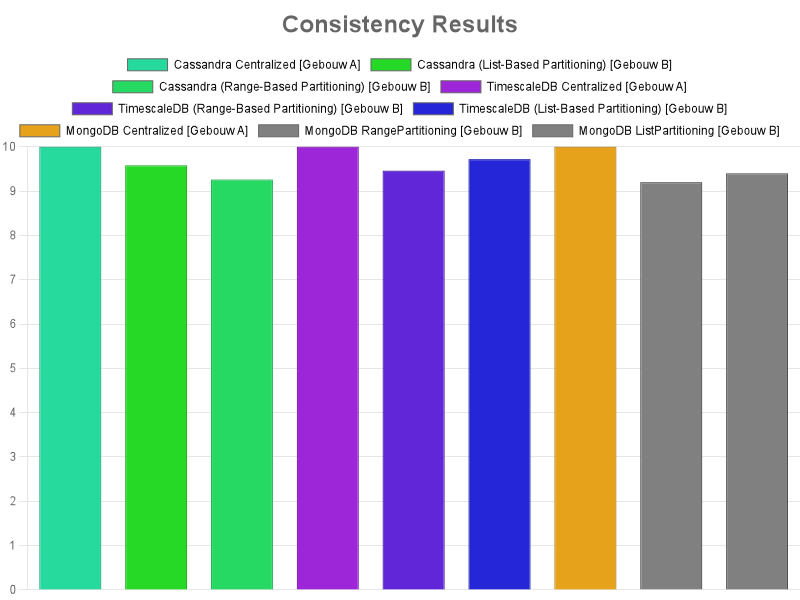
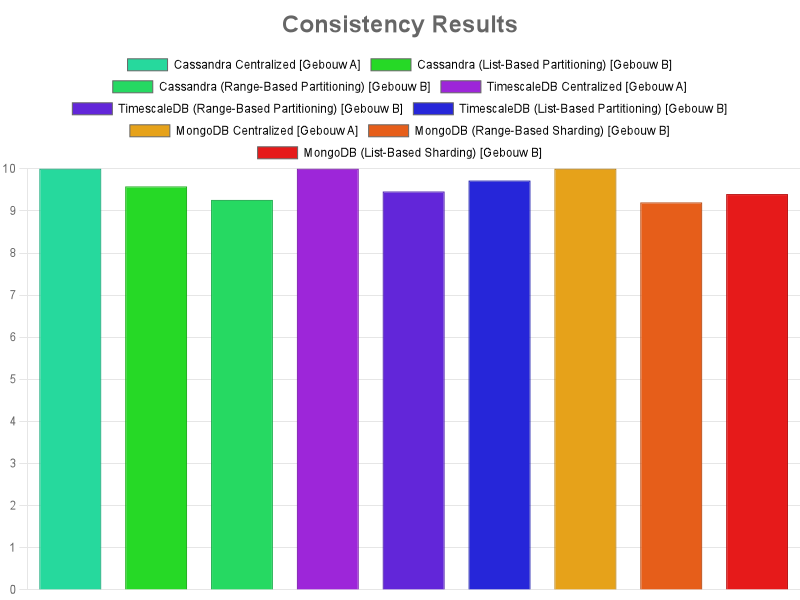
removed unused variables and functions, fixed a problem with generating charts

diff --git a/POCTests.js b/POCTests.js
@@ -5,7 +5,6 @@ const { v4: uuidv4 } = require("uuid");
 const { performance } = require("perf_hooks");
 const fs = require("fs");
 
-const NUM_RECORDS = 100;
 const REPEAT_RUNS = 5;   // aantal herhalingen per test voor gemiddelde
 
 function sleep(ms) {
@@ -25,8 +24,6 @@ function generateSensorData(building = "Building A", room = "Room 1") {
     room
   };
 }
-
-const offlineBuffer = {};
 
 function sleep(ms) {
   return new Promise(resolve => setTimeout(resolve, ms));
@@ -141,26 +138,6 @@ async function runWithAverage(testFn, args, label, metric) {
   testResults.push({ metric, label, value: parseFloat(avg.toFixed(2)) });
 }
 
-/*async function testLatency(queryFn, label) {
-  const start = performance.now();
-  for (let i = 0; i < NUM_RECORDS; i++) {
-    await executeQuery(queryFn,);
-  }
-  const end = performance.now();
-  return (end - start) / NUM_RECORDS;
-}
-
-async function testThroughput(queryFn, label) {
-  const start = performance.now();
-  const promises = [];
-  for (let i = 0; i < NUM_RECORDS; i++) {
-    promises.push(executeQuery(queryFn));
-  }
-  await Promise.all(promises);
-  const end = performance.now();
-  return NUM_RECORDS / ((end - start) / 1000);
-}*/
-
 async function testRealtimeLatency(queryFn, label, intervalMs = 1000, durationSeconds = 10) {
   const records = Math.max(1, Math.floor(durationSeconds * 1000 / intervalMs));
   let totalLatency = 0;
@@ -203,13 +180,6 @@ async function testScalability(queryFn, label, scaleFactors) {
     console.log(`${label} Scalability ${factor} ops: ${end - start} ms`);
   }
   const avg = durations.reduce((a, b) => a + b.duration, 0) / durations.length;
-
-  /*testResults.push({
-    metric: "Scalability",
-    label,
-    value: parseFloat(avg.toFixed(2)),
-    details: durations
-  });*/
 
   return avg;
 }
@@ -304,13 +274,6 @@ async function testConsistency(client, queryFn, label) {
 
   const finalScore = resultsOverTime[resultsOverTime.length - 1].score;
 
-  /*testResults.push({
-    metric: "Consistency",
-    label,
-    value: finalScore,
-    timeline: resultsOverTime
-  });*/
-
   console.log(`✅ Consistency for ${label}: ${finalScore}/10`);
   return finalScore;
 }
@@ -362,121 +325,6 @@ function mapDurationToScore(durationMs) {
   if (durationMs < 2000) return 2;
   return 1; // Minimale score: herstel duurde lang, maar is nog steeds succesvol afgerond
 }
-
-/*async function testOfflineBehavior(edgeClients, label) {
-  console.log(`\n🔌 Testing Offline Behavior for ${label} (Edge zonder centrale verbinding)...`);
-
-  try {
-    for (const [name, client] of Object.entries(edgeClients)) {
-      console.log(`➡ Simulatie van lokaal schrijven in ${name}...`);
-
-      for (let i = 0; i < 10; i++) {
-        const sensorData = {
-          Id: uuidv4(),
-          timestamp: new Date(),
-          temperature: Math.random() * 100,
-          co2: Math.random() * 1000,
-          pressure: Math.random() * 1000,
-          building: "Building A",
-          room: "Room 101"
-        };
-
-        if (name.includes("MongoDB")) {
-          if (!client.isConnected || !client.topology || !client.topology.isConnected()) {
-            if (!offlineBuffer[name]) offlineBuffer[name] = [];
-            offlineBuffer[name].push(sensorData);
-          } else {
-            await executeQuery(() =>
-              client.db("edge_building_b").collection("sensor_data").insertOne(sensorData)
-            );
-          }
-        } else if (name.includes("TimescaleDB")) {
-          await executeQuery(() =>
-            client.query(
-              "INSERT INTO sensor_data (id, timestamp, temperature, co2, pressure, building, room) VALUES ($1, $2, $3, $4, $5, $6, $7)",
-              [
-                sensorData.Id,
-                sensorData.timestamp,
-                sensorData.temperature,
-                sensorData.co2,
-                sensorData.pressure,
-                sensorData.building,
-                sensorData.room,
-              ]
-            )
-          );
-        } else if (name.includes("Cassandra")) {
-          await executeQuery(() =>
-            client.execute(
-              "INSERT INTO sensor_data (id, timestamp, temperature, co2, pressure, building, room) VALUES (?, ?, ?, ?, ?, ?, ?)",
-              [
-                sensorData.Id,
-                sensorData.timestamp,
-                sensorData.temperature,
-                sensorData.co2,
-                sensorData.pressure,
-                sensorData.building,
-                sensorData.room,
-              ],
-              { prepare: true }
-            )
-          );
-        }
-      }
-
-      console.log(`✅ ${name} operationeel zonder centrale connectie`);
-      testResults.push({ metric: "Offline Behavior", label: name, value: "Operational" });
-    }
-  } catch (err) {
-    console.error(`❌ Fout tijdens offline gedragstest:`, err);
-    testResults.push({ metric: "Offline Behavior", label, value: "Failed" });
-  }
-}*/
-
-/*async function testRealtimeLatency(client, queryFn, label, intervalMs = 1000, durationSeconds = 10) {
-  console.log(`\n📡 Realtime Latency Test for ${label}...`);
-  const records = Math.floor(durationSeconds * 1000 / intervalMs);
-  let totalLatency = 0;
-
-  for (let i = 0; i < records; i++) {
-    const start = performance.now();
-    try {
-      await executeQuery(queryFn);
-    } catch (error) {
-      console.error(`Latency error at ${i}:`, error);
-    }
-    const end = performance.now();
-    const latency = end - start;
-    totalLatency += latency;
-    await sleep(intervalMs);
-  }
-
-  const avgLatency = (totalLatency / records).toFixed(2);
-  console.log(`${label} Avg Latency (real-time): ${avgLatency} ms`);
-  testResults.push({ metric: "Realtime Latency", label, value: parseFloat(avgLatency) });
-}
-
-async function testRealtimeThroughput(client, queryFn, label, intervalMs = 200, durationSeconds = 10) {
-  console.log(`\n🚀 Realtime Throughput Test for ${label}...`);
-  let operationCount = 0;
-  const start = performance.now();
-  const endTime = start + durationSeconds * 1000;
-
-  while (performance.now() < endTime) {
-    try {
-      await executeQuery(queryFn);
-      operationCount++;
-    } catch (err) {
-      console.error("Throughput error:", err);
-    }
-    await sleep(intervalMs);
-  }
-
-  const end = performance.now();
-  const throughput = (operationCount / ((end - start) / 1000)).toFixed(2);
-  console.log(`${label} Throughput (real-time): ${throughput} ops/sec`);
-  testResults.push({ metric: "Realtime Throughput", label, value: parseFloat(throughput) });
-}*/
 
 (async () => {
   try {
@@ -861,16 +709,6 @@ async function testRealtimeThroughput(client, queryFn, label, intervalMs = 200, 
         port: 5444,
       }));
     }
-    
-    /*await testOfflineBehavior(
-      {
-        [`MongoDB ${mongoShardedConfigs[0].dbName}`]: mongoShardedClients[0],
-        [`MongoDB ${mongoShardedConfigs[1].dbName}`]: mongoShardedClients[1],
-        'TimescaleDB Range-Based Partitioning': timescalePartitionedConfigs[0].client,
-        'Cassandra ListPartitioning': cassandraPartitionedConfigs[0].client,
-      },
-      'Edge Only Test'
-    );*/
 
     saveResultsToFile();
 

diff --git a/generateCharts.js b/generateCharts.js
@@ -26,9 +26,9 @@ const normalizeLabel = (label) => {
     name = "Cassandra (Range-Based Partitioning)";
   } else if (label.includes("Cassandra Centralized")) {
     name = "Cassandra Centralized";
-  } else if (label.includes("MongoDB edge_list_partitioning")) {
+  } else if (label.includes("MongoDB ListPartitioning")) {
     name = "MongoDB (List-Based Sharding)";
-  } else if (label.includes("MongoDB edge_range_partitioning")) {
+  } else if (label.includes("MongoDB RangePartitioning")) {
     name = "MongoDB (Range-Based Sharding)";
   } else if (label.includes("MongoDB Centralized")) {
     name = "MongoDB Centralized";

diff --git a/obj/Debug/net8.0/EdgeMonitoringSystem.AssemblyInfo.cs b/obj/Debug/net8.0/EdgeMonitoringSystem.AssemblyInfo.cs
@@ -13,7 +13,7 @@ using System.Reflection;
 [assembly: System.Reflection.AssemblyCompanyAttribute("EdgeMonitoringSystem")]
 [assembly: System.Reflection.AssemblyConfigurationAttribute("Debug")]
 [assembly: System.Reflection.AssemblyFileVersionAttribute("1.0.0.0")]
-[assembly: System.Reflection.AssemblyInformationalVersionAttribute("1.0.0")]
+[assembly: System.Reflection.AssemblyInformationalVersionAttribute("1.0.0+4356822ee8b093ab3610e27873ae4df911229786")]
 [assembly: System.Reflection.AssemblyProductAttribute("EdgeMonitoringSystem")]
 [assembly: System.Reflection.AssemblyTitleAttribute("EdgeMonitoringSystem")]
 [assembly: System.Reflection.AssemblyVersionAttribute("1.0.0.0")]
